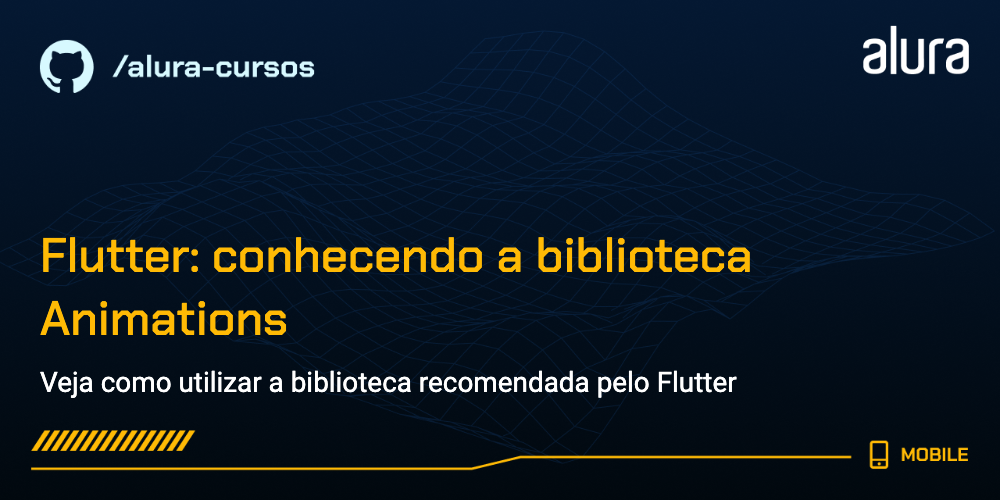
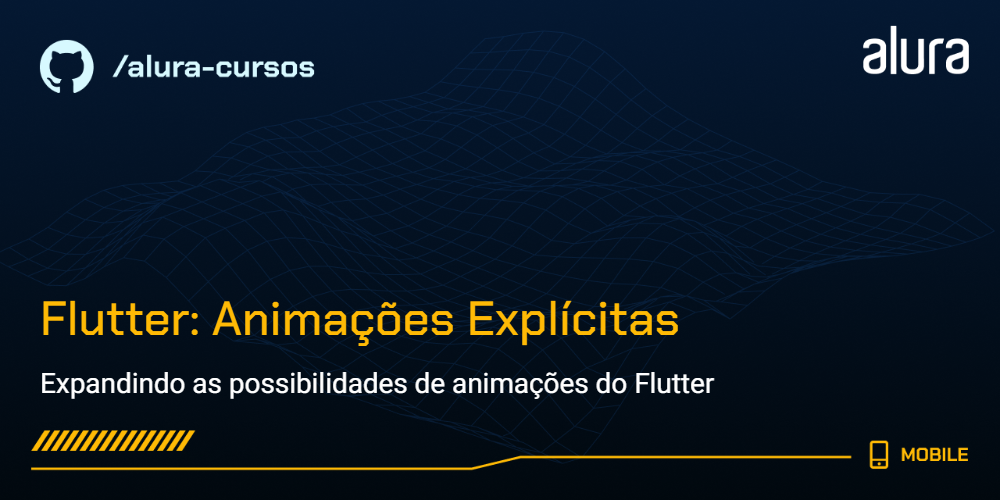
readme
readme

Changed region(s): [[0.031, 0.6, 0.682, 0.69], [0.031, 0.45, 0.775, 0.54], [0.031, 0.72, 0.744, 0.81]]

diff --git a/README.md b/README.md
@@ -1,8 +1,8 @@
 ![Mobile-Flutter: Conhecendo a biblioteca Animations](capa.png)
 
-# Flutter: Animações Explicitas
+# Flutter: Animações Explícitas
 
-Projeto Faerûn para o curso Flutter: Animações Explícitas, focado em compreender e implementar animações Explicitas em seu projeto.
+Projeto Faerûn para o curso Flutter: Animações Explícitas, focado em compreender e implementar animações explícitas em seu projeto.
 
 Esse projeto é baseado no [Hyrule](https://github.com/alura-cursos/3504-flutter-animations) do curso Flutter: Conhecendo a biblioteca Animations;
 
@@ -12,10 +12,10 @@ Esse projeto é baseado no [Hyrule](https://github.com/alura-cursos/3504-flutter
 - RotationTransition;
 - Atributos e conceitos em comum nos FooTransitions;
 - Como controlar uma animação explícita;
-- Criando uma animação explicita personalizada;
+- Criando uma animação explícita personalizada;
 - Quando e como usar o AnimatedWidget;
 
-Este curso é indicado para pessoas que já tem conhecimento básico e querem aprofundar seu conhecimento em Flutter, seguindo boas práticas e também entendendendo como implementar Animações Explicitas dentro de seu projeto.
+Este curso é indicado para pessoas que já tem conhecimento básico e querem aprofundar seu conhecimento em Flutter, seguindo boas práticas e também entendendendo como implementar Animações Explícitas dentro de seu projeto.
 
 ## 📑 Requisitos
 
